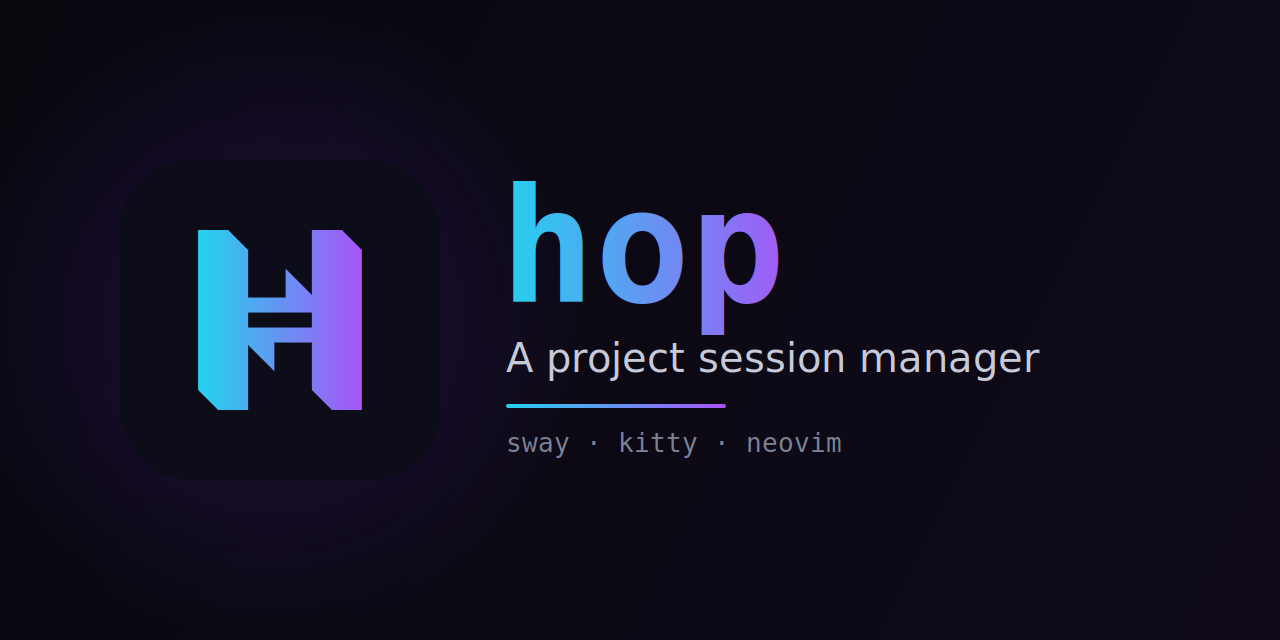
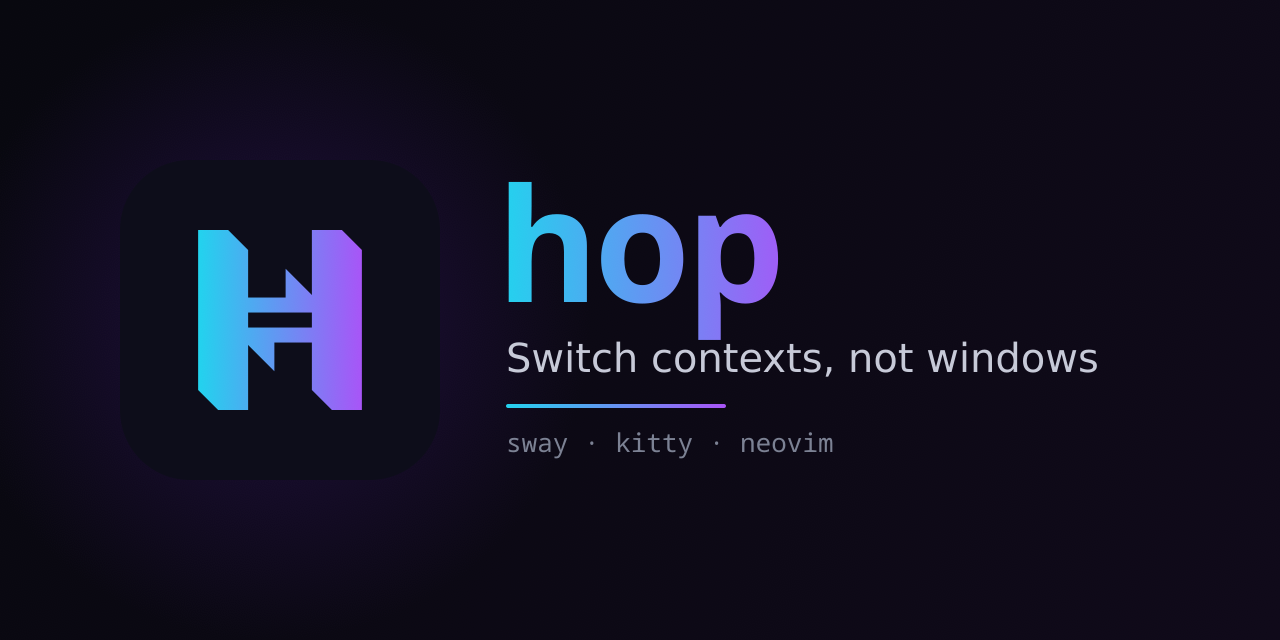
Update social card image

diff --git a/README.md b/README.md
@@ -2,7 +2,7 @@
 
 <img src="./hop/assets/hop-social-card.png" />
 
-hop is a context switcher for terminal work. Each thing you're working on gets its own **hop session** — a dedicated Sway workspace identified by its working directory, holding the editor, terminals, and browser open for it — so moving between them is a single jump, not a teardown-and-rebuild.
+hop is a context switcher for terminal work. Each thing you're working on gets its own **hop session** - a dedicated Sway workspace identified by its working directory, holding the editor, terminals, and browser open for it - so moving between them is a single jump, not a teardown-and-rebuild.
 
 A hop session is conceptually similar to a tmux session, except session/window management is delegated to an actual system window manager (and optionally an app launcher). That means:
 
@@ -65,20 +65,20 @@ exec hopd
 
 Day-to-day, [Vicinae](https://www.vicinae.com/) is the primary surface. What you see when you type `hop` in Vicinae's main search depends on where you are:
 
-- **On a hop session's workspace** (`p:<session>`): one entry per declared window — `Hop editor`, `Hop browser`, `Hop shell`, etc. Plus `Hop kill` for the focused session and `Hop switch to <other-session>` for every other live session.
-- **Off any hop workspace**: only `Hop switch to <session>` per live session — no `Hop kill`, no per-window entries to clutter unrelated workspaces.
-- **Always**: `Hop create session` — falls through to a second Vicinae search over directories under `$HOME` (skips dot-dirs and common build noise like `node_modules`, `target`, `dist`). Picking a directory creates a fresh session for it, or — if it's already the root of a hop session — switches to it.
+- **On a hop session's workspace** (`p:<session>`): one entry per declared window - `Hop editor`, `Hop browser`, `Hop shell`, etc. Plus `Hop kill` for the focused session and `Hop switch to <other-session>` for every other live session.
+- **Off any hop workspace**: only `Hop switch to <session>` per live session - no `Hop kill`, no per-window entries to clutter unrelated workspaces.
+- **Always**: `Hop create session` - falls through to a second Vicinae search over directories under `$HOME` (skips dot-dirs and common build noise like `node_modules`, `target`, `dist`). Picking a directory creates a fresh session for it, or - if it's already the root of a hop session - switches to it.
 
 Two complementary surfaces are described in their own sections below:
 
 - [Sway shortcuts](#sway-shortcuts) - a key for "new shell in this session", faster than going through Vicinae for the most common action.
 - [Open visible-output targets from Kitty](#open-visible-output-targets-from-kitty) - a Kitty kitten that picks file paths and URLs from terminal output and routes them to the session's editor or browser.
 
-Everything Vicinae's entries dispatch to is also reachable directly via the `hop` CLI (`hop`, `hop switch <name>`, `hop move <name>`, `hop term --role <name>`, `hop open <target>`, `hop browser`, `hop kill`) — useful for scripting and automation.
+Everything Vicinae's entries dispatch to is also reachable directly via the `hop` CLI (`hop`, `hop switch <name>`, `hop move <name>`, `hop term --role <name>`, `hop open <target>`, `hop browser`, `hop kill`) - useful for scripting and automation.
 
 ## Sway shortcuts
 
-Bind this helper script in your Sway config to spawn a new shell in the focused hop session (or a plain kitty when not on a hop workspace). Run `hop path sway/term-or-kitty` once and paste its output — using `$(...)` here would re-run hop on every keypress:
+Bind this helper script in your Sway config to spawn a new shell in the focused hop session (or a plain kitty when not on a hop workspace). Run `hop path sway/term-or-kitty` once and paste its output - using `$(...)` here would re-run hop on every keypress:
 
 ```conf
 bindsym $mod+Return exec /printed/by/hop/path
@@ -102,7 +102,7 @@ The picker scans visible terminal output and dispatches supported selections to 
 - `https://example.com`
 - `Processing UsersController#index`
 
-File-shaped tokens that don't exist (per the focused session's backend) are not highlighted. The kitten asks `hop.focused.paths_exist`, which queries the focused session's backend through `noninteractive_prefix` — so paths inside a devcontainer or remote ssh host are checked in the right namespace.
+File-shaped tokens that don't exist (per the focused session's backend) are not highlighted. The kitten asks `hop.focused.paths_exist`, which queries the focused session's backend through `noninteractive_prefix` - so paths inside a devcontainer or remote ssh host are checked in the right namespace.
 
 ## Configuration
 
@@ -112,19 +112,19 @@ A hop config has three named sections plus one scalar setting, all optional:
 - `[layouts.<name>]` - a named layout with one required `activate` shell-snippet probe and a list of windows that come up together when the probe matches.
 - `[windows.<role>]` - top-level windows (always active unless `activate = "false"`).
 - `workspace_layout = "<mode>"` - sway workspace layout applied at first session entry. One of `splith`, `splitv`, `stacking`, `tabbed`.
-- `debug_log = true` - append a diagnostic log of backend command runs (`prepare` / `teardown` / translate / auto-detect probes) and kitty bootstrap stdio to `$XDG_RUNTIME_DIR/hop/debug.log`. Set to a string to use a custom path. First place to look when `hop` fails silently — especially when launched from Vicinae, where stderr is not visible.
+- `debug_log = true` - append a diagnostic log of backend command runs (`prepare` / `teardown` / translate / auto-detect probes) and kitty bootstrap stdio to `$XDG_RUNTIME_DIR/hop/debug.log`. Set to a string to use a custom path. First place to look when `hop` fails silently - especially when launched from Vicinae, where stderr is not visible.
 
 Configs live in `~/.config/hop/config.toml` or a project's `.hop.toml`.
 
 ## Session backends
 
-A session has a **backend** that decides what kind of environment its windows run in. The default is **host**. Other backends - docker container (devcontainer) or anything else describable as a chain of commands - are configured as named entries in the config file. Running a backend on a *remote* machine is a separate axis — the ssh transport (`hop ssh`, see [Remote sessions over ssh](#remote-sessions-over-ssh)) — not a backend of its own.
+A session has a **backend** that decides what kind of environment its windows run in. The default is **host**. Other backends - docker container (devcontainer) or anything else describable as a chain of commands - are configured as named entries in the config file. Running a backend on a *remote* machine is a separate axis - the ssh transport (`hop ssh`, see [Remote sessions over ssh](#remote-sessions-over-ssh)) - not a backend of its own.
 
 Note, that nvim runs on the backend, not on the host (unless backend is the host).
 
 ### Remote sessions over ssh
 
-Run any project's session on a remote machine with **`hop ssh <host>`**: it sets up the ssh transport (ControlMaster, the reverse-forwarded bridge socket, the installed shim) and drops you into a remote shell, where `cd <project> && hop` starts the session there. The project's own `.hop.toml` drives it — the *same* recipe runs a container locally or on the remote, with no ssh in the config and no local stub directory. hop wraps each command in the ssh transport for you, and `{host}` resolves to the remote (or `localhost` locally) for host-dependent values like `LOCAL_HOSTNAME={host}`. See **[docs/hop-ssh.md](docs/hop-ssh.md)** for the usage guide (and troubleshooting, e.g. raising sshd `MaxSessions`).
+Run any project's session on a remote machine with **`hop ssh <host>`**: it sets up the ssh transport (ControlMaster, the reverse-forwarded bridge socket, the installed shim) and drops you into a remote shell, where `cd <project> && hop` starts the session there. The project's own `.hop.toml` drives it - the *same* recipe runs a container locally or on the remote, with no ssh in the config and no local stub directory. hop wraps each command in the ssh transport for you, and `{host}` resolves to the remote (or `localhost` locally) for host-dependent values like `LOCAL_HOSTNAME={host}`. See **[docs/hop-ssh.md](docs/hop-ssh.md)** for the usage guide (and troubleshooting, e.g. raising sshd `MaxSessions`).
 
 ### Auto-detection
 
@@ -154,7 +154,7 @@ interactive_prefix    = "podman-compose -f docker-compose.dev.yml exec devcontai
 noninteractive_prefix = "podman-compose -f docker-compose.dev.yml exec -T devcontainer"
 ```
 
-Each lifecycle / translate field is **either a single string or a list of strings**. Single-string values run as one `sh -c` invocation; list values run each element as its own `sh -c` invocation in declaration order. For `prepare` and `teardown` the sequence aborts on the first non-zero exit (the popup's held shell shows the failing step). For `port_translate` / `host_translate` the *last* element's stripped stdout is the translated value (earlier elements run for their side effects). Use TOML triple-quoted strings (`"""…"""`) for multi-line pipelines inside any element. Placeholder values are shell-quoted before insertion, so paths with spaces substitute safely. `interactive_prefix` and `noninteractive_prefix` stay string-only — they wrap, they don't sequence.
+Each lifecycle / translate field is **either a single string or a list of strings**. Single-string values run as one `sh -c` invocation; list values run each element as its own `sh -c` invocation in declaration order. For `prepare` and `teardown` the sequence aborts on the first non-zero exit (the popup's held shell shows the failing step). For `port_translate` / `host_translate` the *last* element's stripped stdout is the translated value (earlier elements run for their side effects). Use TOML triple-quoted strings (`"""…"""`) for multi-line pipelines inside any element. Placeholder values are shell-quoted before insertion, so paths with spaces substitute safely. `interactive_prefix` and `noninteractive_prefix` stay string-only - they wrap, they don't sequence.
 
 Backend fields:
 
@@ -207,7 +207,7 @@ Built-in roles `shell`, `editor`, and `browser` ship with hop defaults:
 
 To change a built-in, declare it as a top-level window: `[windows.editor] activate = "false"` opts out of the editor for this config; `[windows.browser] activate = "true"` activates the browser; `[windows.shell] command = "/usr/bin/zsh"` overrides the shell.
 
-To enable Kitty shell integration end-to-end inside a non-host backend (so `hop tail` and other OSC-133-dependent features work for in-container / over-ssh shells), wrap the shell role with kitty's recommended mechanism — `kitten run-shell` for container-style backends, `kitten ssh` as the prefix for ssh backends. The empty-command inheritance rule means every other role in the same session picks up the same wrap automatically:
+To enable Kitty shell integration end-to-end inside a non-host backend (so `hop tail` and other OSC-133-dependent features work for in-container / over-ssh shells), wrap the shell role with kitty's recommended mechanism - `kitten run-shell` for container-style backends, `kitten ssh` as the prefix for ssh backends. The empty-command inheritance rule means every other role in the same session picks up the same wrap automatically:
 
 ```toml
 [layouts.rails.windows.shell]
@@ -219,21 +219,21 @@ command = ""  # inherits the shell role's kitten wrap
 
 Multiple matching layouts compose: a Rails project that also has `vite.config.ts` activates both layouts and gets their windows.
 
-A window `command` is an ordinary shell string, so make a long-running role idempotent — survive a window close and reopen — by freeing its resource before it starts:
+A window `command` is an ordinary shell string, so make a long-running role idempotent - survive a window close and reopen - by freeing its resource before it starts:
 
 ```toml
 [layouts.rails.windows.server]
 command = "fuser -k 3000/tcp 2>/dev/null; bin/dev"
 ```
 
-The cleanup runs through the active backend, in the same namespace as the server — inside the container for a devcontainer backend, on the remote over ssh — so it clears an instance that outlived the previous window (common when the window's child was a `podman exec` / `ssh` transport that didn't propagate the hangup) before `bin/dev` rebinds the port. Use whatever the image has: `pkill -f bin/dev`, `lsof -ti:3000 | xargs -r kill`, etc.
+The cleanup runs through the active backend, in the same namespace as the server - inside the container for a devcontainer backend, on the remote over ssh - so it clears an instance that outlived the previous window (common when the window's child was a `podman exec` / `ssh` transport that didn't propagate the hangup) before `bin/dev` rebinds the port. Use whatever the image has: `pkill -f bin/dev`, `lsof -ti:3000 | xargs -r kill`, etc.
 
 ### Editor keystroke templates
 
 `hop open <file>[:<line>]` and the `kitten/hints` dispatch path drive the editor by writing raw bytes into its kitty window. Two `[windows.editor]` fields let you swap the byte sequence for any TUI editor:
 
-- `open_keys` — template used when the target has no line number.
-- `open_keys_with_line` — template used when the target has a line number.
+- `open_keys` - template used when the target has no line number.
+- `open_keys_with_line` - template used when the target has a line number.
 
 Both are Python `str.format` templates. `{path}` substitutes the target path (with any literal `'` doubled, see below); `{line}` substitutes the decimal line number.
 
@@ -253,15 +253,15 @@ open_keys           = "\u001b:open {path}\r"
 open_keys_with_line = "\u001b:open {path}:{line}\r"
 ```
 
-TOML basic strings disallow literal control bytes, so Escape has to be written as `\u001b` — TOML only defines `\b \t \n \f \r \" \\ \uXXXX \UXXXXXXXX`. Reading the helix template: `\u001b` drops the editor out of insert mode in case the kitten dispatched while the user was mid-edit, `:` enters command mode, `open {path}` is the open-file command, `\r` submits.
+TOML basic strings disallow literal control bytes, so Escape has to be written as `\u001b` - TOML only defines `\b \t \n \f \r \" \\ \uXXXX \UXXXXXXXX`. Reading the helix template: `\u001b` drops the editor out of insert mode in case the kitten dispatched while the user was mid-edit, `:` enters command mode, `open {path}` is the open-file command, `\r` submits.
 
-The substitution layer doubles literal single quotes in `{path}` before formatting so the nvim default (which embeds `{path}` inside a single-quoted vim string) handles paths containing `'`. Templates that don't wrap `{path}` in `'...'` aren't affected — the doubling is a no-op for paths without `'`, which is the overwhelmingly common case.
+The substitution layer doubles literal single quotes in `{path}` before formatting so the nvim default (which embeds `{path}` inside a single-quoted vim string) handles paths containing `'`. Templates that don't wrap `{path}` in `'...'` aren't affected - the doubling is a no-op for paths without `'`, which is the overwhelmingly common case.
 
 One semantic caveat: vim's `:drop` reuses an existing buffer when the file is already open; not every editor has that equivalent. Templates targeting editors without a "reuse" command may open a new buffer per call.
 
 ### Open handlers for binary files
 
-`hop open foo.png` (or clicking a `.png` in the open-selection kitten) routes through a configured per-extension handler instead of nvim — so PNGs land in your image viewer, PDFs in your reader, archives in your file manager, etc. The dispatch table lives in the top-level `[open_handlers]` config:
+`hop open foo.png` (or clicking a `.png` in the open-selection kitten) routes through a configured per-extension handler instead of nvim - so PNGs land in your image viewer, PDFs in your reader, archives in your file manager, etc. The dispatch table lives in the top-level `[open_handlers]` config:
 
 ```toml
 [open_handlers]
@@ -269,11 +269,11 @@ One semantic caveat: vim's `:drop` reuses an existing buffer when the file is al
 "*.png" = "feh {path}"
 ```
 
-`{path}` substitutes the resolved file path (shell-quoted). Hop ships built-in defaults for known-binary extensions only — images (`.png`, `.jpg`, `.jpeg`, `.gif`, `.webp`, `.bmp`, `.tiff`, `.ico`), audio (`.mp3`, `.wav`, `.ogg`, `.flac`, `.opus`, `.m4a`), video (`.mp4`, `.mov`, `.mkv`, `.webm`, `.avi`), documents (`.pdf`, `.docx`, `.xlsx`, `.pptx`, `.odt`, `.ods`, `.odp`), archives (`.zip`, `.tar`, `.tar.gz`, `.tgz`, `.tar.bz2`, `.7z`, `.rar`), and native binaries (`.exe`, `.dll`, `.so`, `.dylib`). Each defaults to `xdg-open {path}`.
+`{path}` substitutes the resolved file path (shell-quoted). Hop ships built-in defaults for known-binary extensions only - images (`.png`, `.jpg`, `.jpeg`, `.gif`, `.webp`, `.bmp`, `.tiff`, `.ico`), audio (`.mp3`, `.wav`, `.ogg`, `.flac`, `.opus`, `.m4a`), video (`.mp4`, `.mov`, `.mkv`, `.webm`, `.avi`), documents (`.pdf`, `.docx`, `.xlsx`, `.pptx`, `.odt`, `.ods`, `.odp`), archives (`.zip`, `.tar`, `.tar.gz`, `.tgz`, `.tar.bz2`, `.7z`, `.rar`), and native binaries (`.exe`, `.dll`, `.so`, `.dylib`). Each defaults to `xdg-open {path}`.
 
-Anything **not** on the binary allowlist stays with the editor — JSON, YAML, TOML, Markdown, SVG, source code, files with no extension. That's the whole point of an allowlist: hop won't second-guess a file you can edit in nvim.
+Anything **not** on the binary allowlist stays with the editor - JSON, YAML, TOML, Markdown, SVG, source code, files with no extension. That's the whole point of an allowlist: hop won't second-guess a file you can edit in nvim.
 
-Override per pattern in your global or project config. Set a template to `""` to disable a default and fall through to nvim — `"*.svg" = ""` doesn't actually do anything (svg already isn't a default), but `"*.png" = ""` would, if you want to edit pixel data in nvim for some reason.
+Override per pattern in your global or project config. Set a template to `""` to disable a default and fall through to nvim - `"*.svg" = ""` doesn't actually do anything (svg already isn't a default), but `"*.png" = ""` would, if you want to edit pixel data in nvim for some reason.
 
 Handlers run through the active session backend's `interactive_prefix`, so a devcontainer session executes the viewer inside the container. Configure the template accordingly if you want the host to handle it instead.
 
@@ -285,7 +285,7 @@ hop --backend <name>
 
 Forces a backend at session creation regardless of auto-detect. Use `hop --backend host` to keep the host backend in a project that would otherwise auto-activate something else. The choice is persisted for the session's lifetime.
 
-For step-by-step devcontainer setup and troubleshooting, see [`docs/devcontainer.md`](docs/devcontainer.md). For running a session on a **remote** machine, see [`docs/hop-ssh.md`](docs/hop-ssh.md) — [`docs/ssh.md`](docs/ssh.md) and [`docs/ssh-devcontainer.md`](docs/ssh-devcontainer.md) document the hand-wired recipes it supersedes.
+For step-by-step devcontainer setup and troubleshooting, see [`docs/devcontainer.md`](docs/devcontainer.md). For running a session on a **remote** machine, see [`docs/hop-ssh.md`](docs/hop-ssh.md) - [`docs/ssh.md`](docs/ssh.md) and [`docs/ssh-devcontainer.md`](docs/ssh-devcontainer.md) document the hand-wired recipes it supersedes.
 
 ## Automation
 
@@ -319,7 +319,7 @@ Prompt detection uses Kitty's shell integration (OSC 133), which is on by defaul
 - `hop switch <name>` - focus the Sway workspace `p:<name>`.
 - `hop move <name>` - move the currently focused Sway window onto `p:<name>` and switch to that workspace.
 - `hop open <target>` - route the target to the right place: a URL goes to the session browser (with the backend's localhost translation applied), a binary file (image, PDF, archive, ...) goes to the configured handler (defaults to `xdg-open`), a Rails `Controller#action` ref or `path[:line]` goes to the shared Neovim. See [Open handlers for binary files](#open-handlers-for-binary-files). The kitten under [Open visible-output targets from Kitty](#open-visible-output-targets-from-kitty) uses the same parser.
-- `hop term --role <name>` - focus or create the window for the given role. `hop term --role editor` focuses the session's shared Neovim — launching it on first use, focusing it when it's already running, recreating it after `:qa`.
+- `hop term --role <name>` - focus or create the window for the given role. `hop term --role editor` focuses the session's shared Neovim - launching it on first use, focusing it when it's already running, recreating it after `:qa`.
 - `hop browser [<url>]` - reuse or create a session-owned browser window. If the window was moved to another workspace, it's moved back before being focused.
 - `hop kill` - close every Sway/Kitty window owned by the session, remove its workspace, and run the backend's `teardown`. Run from the session root.
 